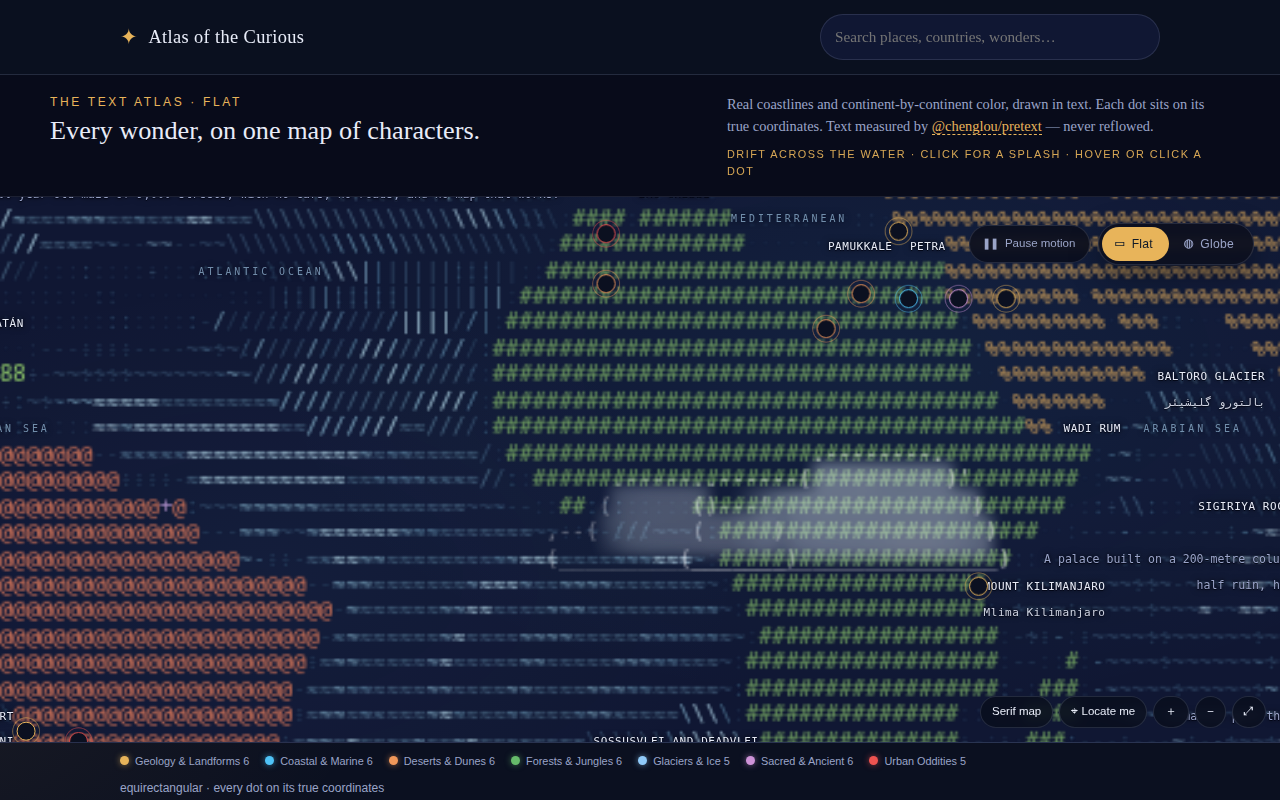
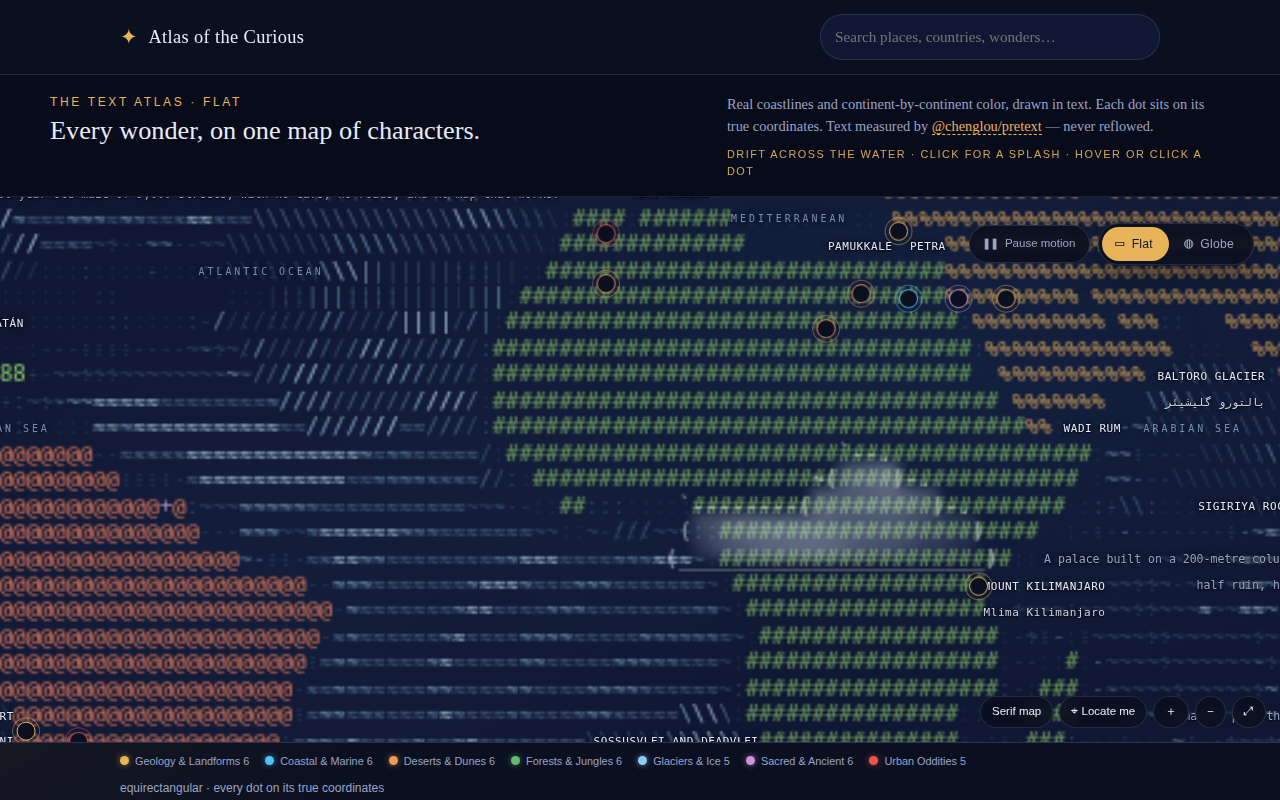
Address review round 3: clipped viewport, phone toolbars, clusters, leaders
- The map viewport clips instead of hiding overflow, so focus can no longer
  scroll it and slide the globe off the flat map beneath.
- On phones the switch, filter readout and control bars sit in toolbar rows
  above and below the map instead of over it; the readout keeps its space.
- At planet scale, crowded globe rings merge into a count that zooms in to
  separate them, with an accessible name listing its places.
- Routed globe names get a hairline back to their ring, and names routed
  too far from it are left to the card.
- Pause motion also holds off Space and every other rotation path.

Changed region(s): [[0.4375, 0.5625, 0.7812, 0.7188]]

diff --git a/earthxt/place-layer.js b/earthxt/place-layer.js
@@ -4,13 +4,20 @@ import { prepareFlowText } from '../js/map-art.js';
 import { measureNaturalWidth } from '../vendor/pretext/layout.js';
 import { createPlaceRouter, projectPlaces } from './places.js';
 
+const MAX_LEADER = 80;
+
 export class PlaceLayer {
   constructor(stage, layer, places, roles, colors, { standalone = false, onInspect = () => {},
-    placeHref = id => `../#/place/${encodeURIComponent(id)}` } = {}) {
+    placeHref = id => `../#/place/${encodeURIComponent(id)}`, onCluster = null } = {}) {
     this.placeHref = placeHref;
+    this.onCluster = onCluster;
+    this.clusterButtons = [];
+    this.clustered = new Set();
     this.dimmed = new Set();
     const view = stage.ownerDocument?.defaultView;
-    this.ground = (view?.getComputedStyle ? view.getComputedStyle(stage).getPropertyValue('--bg').trim() : '') || '#0b1020';
+    const css = view?.getComputedStyle ? view.getComputedStyle(stage) : null;
+    this.ground = css?.getPropertyValue('--bg').trim() || '#0b1020';
+    this.clusterInk = css?.getPropertyValue('--gold').trim() || '#e8b45a';
     this.stage = stage;
     this.layer = layer;
     this.places = places;
@@ -167,15 +174,41 @@ export class PlaceLayer {
     const out = this.router.update(camera, level, viewport, grid, blocked, this.markers, enabled && earth);
     this.labels = out.labels;
     this.markerCells = out.markerCells;
+    this.clustered = this.clusterMarkers(ctx, level);
     const role = this.roles['map-label'];
     ctx.font = role.font;
     ctx.textAlign = 'left';
     ctx.textBaseline = 'top';
     const nativeSpacing = 'letterSpacing' in ctx;
     if (nativeSpacing) ctx.letterSpacing = `${role.letterSpacing}px`;
+    const markerById = new Map(this.markers.map(marker => [marker.id, marker]));
     for (const label of this.labels) {
       if (this.dimmed.has(label.id)) continue;
-      ctx.fillStyle = this.colors.get(this.byId.get(label.id).category);
+      const color = this.colors.get(this.byId.get(label.id).category);
+      ctx.fillStyle = color;
+      // A name routed away from its dot gets a hairline back to the ring.
+      const marker = markerById.get(label.id), first = label.lines[0];
+      if (this.clustered.has(label.id)) continue;
+      if (marker?.visible && first) {
+        const x0 = grid.x + (label.dir > 0 ? label.col * grid.cellWidth : (label.col + 1) * grid.cellWidth - first.width);
+        const y0 = grid.y + first.row * grid.cellHeight;
+        const nx = Math.max(x0, Math.min(marker.x, x0 + first.width));
+        const ny = Math.max(y0, Math.min(marker.y, y0 + grid.cellHeight));
+        const gap = Math.hypot(nx - marker.x, ny - marker.y);
+        // A name routed this far no longer reads as its dot's; the card has it.
+        if (gap > MAX_LEADER) continue;
+        if (gap > 14) {
+          const ux = (nx - marker.x) / gap, uy = (ny - marker.y) / gap;
+          ctx.globalAlpha = 0.55;
+          ctx.strokeStyle = color;
+          ctx.lineWidth = 1;
+          ctx.beginPath();
+          ctx.moveTo(marker.x + ux * 7, marker.y + uy * 7);
+          ctx.lineTo(nx - ux * 2, ny - uy * 2);
+          ctx.stroke();
+          ctx.globalAlpha = 1;
+        }
+      }
       for (const line of label.lines) {
         const x = grid.x + (label.dir > 0 ? label.col * grid.cellWidth : (label.col + 1) * grid.cellWidth - line.width);
         const y = grid.y + line.row * grid.cellHeight;
@@ -184,10 +217,12 @@ export class PlaceLayer {
       }
     }
     let visibleMarkers = 0;
+    const clustered = this.clustered;
     for (const marker of this.markers) {
       const node = this.nodes.get(marker.id);
-      node.hidden = !marker.visible;
+      node.hidden = !marker.visible || clustered.has(marker.id);
       if (!marker.visible) continue;
+      if (clustered.has(marker.id)) { visibleMarkers++; continue; }
       visibleMarkers++;
       node.style.transform = `translate(${marker.x}px, ${marker.y}px) translate(-50%, -50%)`;
       // The atlas marker: a ground-coloured disc in a category ring, with a
@@ -212,6 +247,58 @@ export class PlaceLayer {
     this.drawMetrics.labelledPlaces = this.labels.length;
     this.drawMetrics.placeLabelMs = out.placeLabelMs;
     return this.drawMetrics;
+  }
+  /** At planet scale, rings closer than a ring's width merge into one count
+   * that zooms toward its places (`onCluster`); returns the merged ids. */
+  clusterMarkers(ctx, level) {
+    const merged = new Set();
+    for (const button of this.clusterButtons) button.hidden = true;
+    if (!this.onCluster || level.index !== 0) return merged;
+    const groups = [];
+    for (const marker of this.markers) {
+      if (!marker.visible || this.dimmed.has(marker.id)) continue;
+      const near = groups.find(group => Math.hypot(group.x - marker.x, group.y - marker.y) < 15);
+      if (near) {
+        near.members.push(marker);
+        near.x = near.members.reduce((sum, m) => sum + m.x, 0) / near.members.length;
+        near.y = near.members.reduce((sum, m) => sum + m.y, 0) / near.members.length;
+      } else groups.push({ x: marker.x, y: marker.y, members: [marker] });
+    }
+    let used = 0;
+    for (const group of groups) {
+      if (group.members.length < 2) continue;
+      for (const member of group.members) merged.add(member.id);
+      ctx.beginPath();
+      ctx.arc(group.x, group.y, 9, 0, Math.PI * 2);
+      ctx.fillStyle = this.ground;
+      ctx.fill();
+      ctx.lineWidth = 1.5;
+      ctx.strokeStyle = this.clusterInk;
+      ctx.stroke();
+      ctx.fillStyle = this.clusterInk;
+      ctx.font = this.roles['hover-cta'].font; // the card's sans, from the registry
+      ctx.textAlign = 'center';
+      ctx.textBaseline = 'middle';
+      if ('letterSpacing' in ctx) ctx.letterSpacing = '0px';
+      ctx.fillText(String(group.members.length), group.x, group.y + 0.5);
+      let button = this.clusterButtons[used];
+      if (!button) {
+        button = document.createElement('button');
+        button.type = 'button';
+        button.className = 'globe-marker globe-cluster';
+        button.addEventListener('click', () => this.onCluster(button.places));
+        this.layer.append(button);
+        this.clusterButtons.push(button);
+      }
+      used++;
+      button.places = group.members.map(member => this.byId.get(member.id));
+      button.setAttribute('aria-label', `${group.members.length} places close together: ${button.places.map(place => place.name).join(', ')}. Zoom in to separate them.`);
+      button.style.setProperty('--accent', 'var(--gold)');
+      button.style.transform = `translate(${group.x}px, ${group.y}px) translate(-50%, -50%)`;
+      button.hidden = false;
+    }
+    ctx.textAlign = 'left';
+    return merged;
   }
   /** Mirror the atlas search/category filter: `ids` is the visible set, or null for all. */
   setFilter(ids) {

diff --git a/css/globe.css b/css/globe.css
@@ -5,6 +5,10 @@
 /* Panels below set `display`; `hidden` must still win over it. */
 .map-controls[hidden], .globe-view[hidden], .globe-view [hidden] { display: none !important; }
 
+/* `hidden` still lets focus and scrollIntoView scroll the viewport, which
+   slid the globe layer off the flat map it covers. `clip` cannot scroll. */
+#text-atlas .map-viewport { overflow: clip; }
+
 /* Copy written for one view only. */
 .atlas[data-view="flat"] .for-globe,
 .atlas[data-view="globe"] .for-flat { display: none !important; }
@@ -258,6 +262,7 @@
   backdrop-filter: blur(6px);
 }
 .atlas-filter[hidden] { display: none; }
+/* Count first, so a clipped line still says how many places match. */
 .atlas-filter-clear {
   font: inherit;
   font-size: 0.75rem;
@@ -324,24 +329,54 @@
   .atlas > .atlas-overlay .hero-kicker { grid-row: 1; margin-bottom: 6px; }
   .atlas > .atlas-overlay .atlas-title { grid-row: 2 / span 2; align-self: start; }
 }
+/* Phone toolbars (js/views.js moves the floating controls into them). */
+.map-toolbar { display: none; }
 @media (max-width: 640px) {
   .atlas > .atlas-overlay { padding: 12px 16px 11px; }
-  .view-tools { top: 10px; right: 10px; gap: 6px; }
-  /* A row of its own under the switch: the whole message wraps, Clear stays. */
-  .atlas-filter { left: 10px; right: 10px; top: 62px; bottom: auto; max-width: none; justify-content: space-between; border-radius: 16px; font-size: 0.74rem; padding-left: 12px; }
-  .atlas-filter-text { flex: 1 1 auto; min-width: 0; }
-  .view-switch { padding: 2px; }
+  .map-toolbar {
+    display: flex;
+    flex-wrap: wrap;
+    align-items: center;
+    gap: 8px;
+    padding: 8px 10px;
+    background: var(--bg-soft);
+  }
+  .map-toolbar-top { justify-content: flex-end; border-bottom: 1px solid var(--line); }
+  .map-toolbar-bottom { justify-content: flex-end; border-top: 1px solid var(--line); }
+  .map-toolbar .view-tools,
+  .map-toolbar .map-controls,
+  .map-toolbar .atlas-filter {
+    position: static;
+    inset: auto;
+    transform: none;
+    max-width: none;
+  }
+  .map-toolbar .view-tools { gap: 6px; }
+  .map-toolbar .view-switch { padding: 2px; }
+  /* One row: the filter readout holds its place (hidden, not removed) left of
+     the switch, so a search never changes the page's height. */
+  .map-toolbar-top { flex-wrap: nowrap; justify-content: space-between; }
+  .map-toolbar .view-tools { flex: none; }
+  .map-toolbar .atlas-filter {
+    flex: 1 1 auto; min-width: 0; min-height: 44px;
+    justify-content: space-between; gap: 6px;
+    border-radius: 16px; font-size: 0.72rem; line-height: 1.25; padding: 3px 3px 3px 10px;
+  }
+  .map-toolbar .atlas-filter[hidden] { display: flex !important; visibility: hidden; }
+  .map-toolbar .atlas-filter-text {
+    flex: 1 1 auto; min-width: 0;
+    display: -webkit-box; -webkit-line-clamp: 2; -webkit-box-orient: vertical; overflow: hidden;
+  }
+  .map-toolbar .atlas-filter-clear { flex: none; padding: 4px 10px; }
+  .view-btn { padding: 6px 12px 6px 10px; font-size: 0.72rem; }
   .motion-btn { padding: 8px 12px; }
   .motion-label { position: absolute; width: 1px; height: 1px; overflow: hidden; clip: rect(0 0 0 0); white-space: nowrap; }
-  .view-btn { padding: 6px 12px 6px 10px; font-size: 0.72rem; }
-  .map-controls { gap: 5px; }
+  .map-toolbar .map-controls { flex-wrap: wrap; justify-content: flex-end; gap: 6px; }
   .map-controls .map-btn { padding: 6px 10px; }
-  .atlas[data-view="flat"] .map-controls { left: 10px; right: 10px; bottom: 10px; max-width: none; justify-content: flex-end; }
   #map-locate { font-size: 0; }
   #map-locate::first-letter { font-size: 0.8rem; }
-  .atlas[data-view="globe"] .map-viewport { height: min(124vw, 500px); }
-  .globe-stage { top: 58px; bottom: 112px; }
-  .globe-controls { left: 10px; right: 10px; bottom: 10px; max-width: none; justify-content: flex-end; flex-wrap: wrap-reverse; }
+  .atlas[data-view="globe"] .map-viewport { height: min(100vw, 420px); }
+  .globe-stage { top: 0; bottom: 0; }
   .globe-controls #labels-toggle, .globe-controls #rotate-text { display: none; }
   .lod-switch .map-btn { padding: 5px 9px; }
 }

diff --git a/earthxt/app.js b/earthxt/app.js
@@ -41,6 +41,11 @@ let active = true;
 const places = globePlaces(window.ATLAS_DATA?.places || []);
 
 function setRotation(enabled) {
+  // The atlas page's Pause motion outranks every way of starting rotation.
+  if (enabled && document.documentElement.dataset.motion === 'paused') {
+    setText('live-status', 'Motion is paused. Use Resume motion to rotate the globe.');
+    enabled = false;
+  }
   state.autoRotate = enabled;
   $('rotate-toggle')?.setAttribute('aria-pressed', String(enabled));
   $('rotate-toggle')?.setAttribute('aria-label', enabled ? 'Pause automatic rotation' : 'Start automatic rotation');
@@ -307,7 +312,17 @@ async function main({ embedded = false } = {}) {
   placeLayer = new PlaceLayer($('globe-stage'), $('globe-markers'), places, roles,
     readCategoryColors(document, window.ATLAS_DATA.categories), {
       standalone: document.documentElement.hasAttribute('data-standalone'), onInspect: () => setRotation(false),
-      placeHref: embedded ? id => `#/place/${encodeURIComponent(id)}` : undefined
+      placeHref: embedded ? id => `#/place/${encodeURIComponent(id)}` : undefined,
+      // Crowded rings merge at planet scale; a merged ring zooms to its places.
+      onCluster: embedded ? members => {
+        setRotation(false);
+        state.latitude = members.reduce((sum, place) => sum + place.latitude, 0) / members.length;
+        state.longitude = members.reduce((sum, place) => sum + place.longitude, 0) / members.length;
+        zoomTo(LEVELS[1].targetDistance);
+        $('globe').focus({ preventScroll: true });
+        setText('live-status', `Zoomed to ${members.map(place => place.name).join(', ')}.`);
+        dirty = true;
+      } : null
     });
   renderer.places = placeLayer;
   routeToNearest($('globe-markers'), '.globe-marker');

diff --git a/js/views.js b/js/views.js
@@ -107,6 +107,33 @@ if (section && globeView) {
   });
   document.getElementById("atlas-filter-clear")?.addEventListener("click", () => window.ATLAS_CLEAR_FILTER?.());
 
+  // On a phone the map is a short band, so its switch, filter readout and
+  // control bars leave it for toolbar rows above and below rather than
+  // covering the geography; wider screens float them over the map again.
+  const viewport = section.querySelector(".map-viewport");
+  const phone = matchMedia("(max-width: 640px)");
+  const topBar = document.createElement("div");
+  topBar.className = "map-toolbar map-toolbar-top";
+  const bottomBar = document.createElement("div");
+  bottomBar.className = "map-toolbar map-toolbar-bottom";
+  viewport.before(topBar);
+  viewport.after(bottomBar);
+  const floating = {
+    top: [document.getElementById("atlas-filter"), section.querySelector(".view-tools")].filter(Boolean),
+    bottom: [...section.querySelectorAll(".map-controls")]
+  };
+  function placeTools() {
+    if (phone.matches) {
+      topBar.append(...floating.top);
+      bottomBar.append(...floating.bottom);
+    } else {
+      viewport.prepend(...floating.top);
+      viewport.append(...floating.bottom);
+    }
+  }
+  phone.addEventListener("change", placeTools);
+  placeTools();
+
   // The map below takes the room the intro band leaves (css/globe.css).
   const intro = section.querySelector(":scope > .atlas-overlay");
   if (intro && typeof ResizeObserver === "function") {
